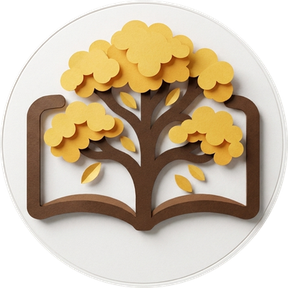
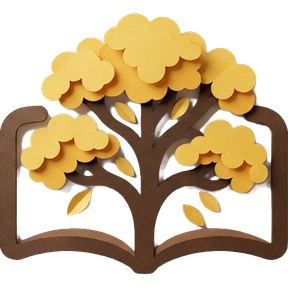
feat(perfil): ipê do cartão de leitor sem o disco branco, só marrom e amarelo (Spec 078)

diff --git a/src/view/components/IpeMark.tsx b/src/view/components/IpeMark.tsx
@@ -8,7 +8,7 @@ export type IpeMarkProps = {
 };
 
 /**
- * Medalhão do ipê amarelo brotando de um livro aberto, em papel recortado (`src/view/assets/ipe-medalhao.png`,
+ * Ipê amarelo brotando de um livro aberto, em papel recortado e sem fundo (`src/view/assets/ipe-medalhao.png`,
  * arte enviada pelo usuário em 2026-10-26, Spec 078). Puramente decorativo.
  */
 export function IpeMark({ size = 64, testID }: IpeMarkProps) {
